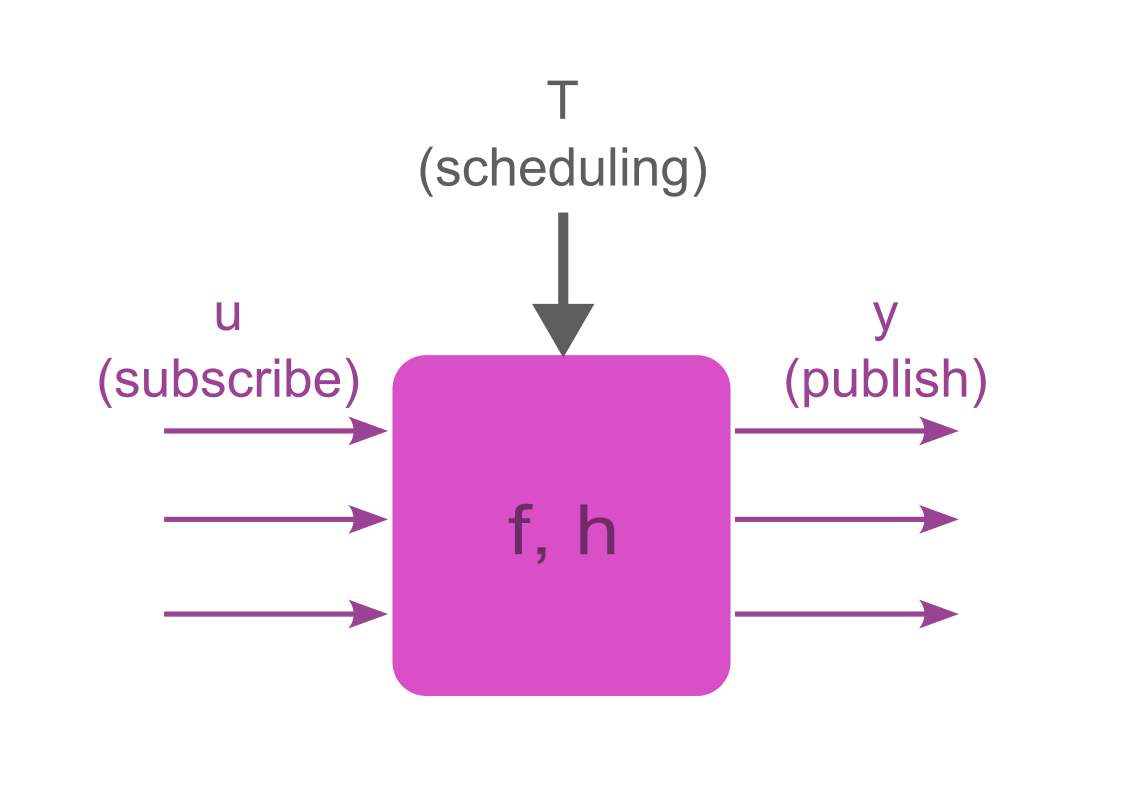
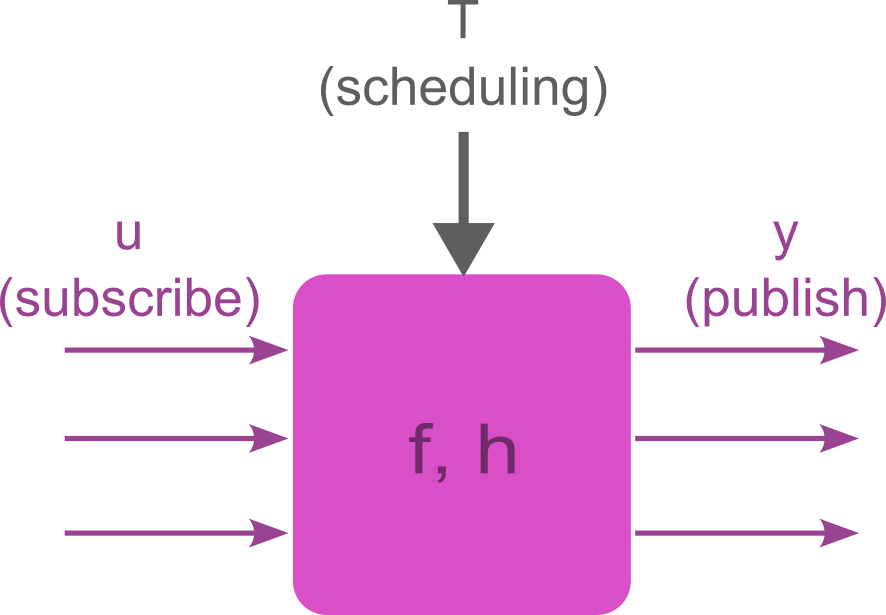
.

diff --git a/README.md b/README.md
@@ -82,7 +82,7 @@ function, the step function, and the publish_/subscribe_ functions. Stop!
 <!-- ![Component](component.png) -->
 
 <div align="center">
-  <img src="./component.svg" alt="Image Alt Text" />
+  <img src="./component.png" alt="Image Alt Text" />
   <p><em>Caption: Your caption text here</em></p>
 </div>
 
